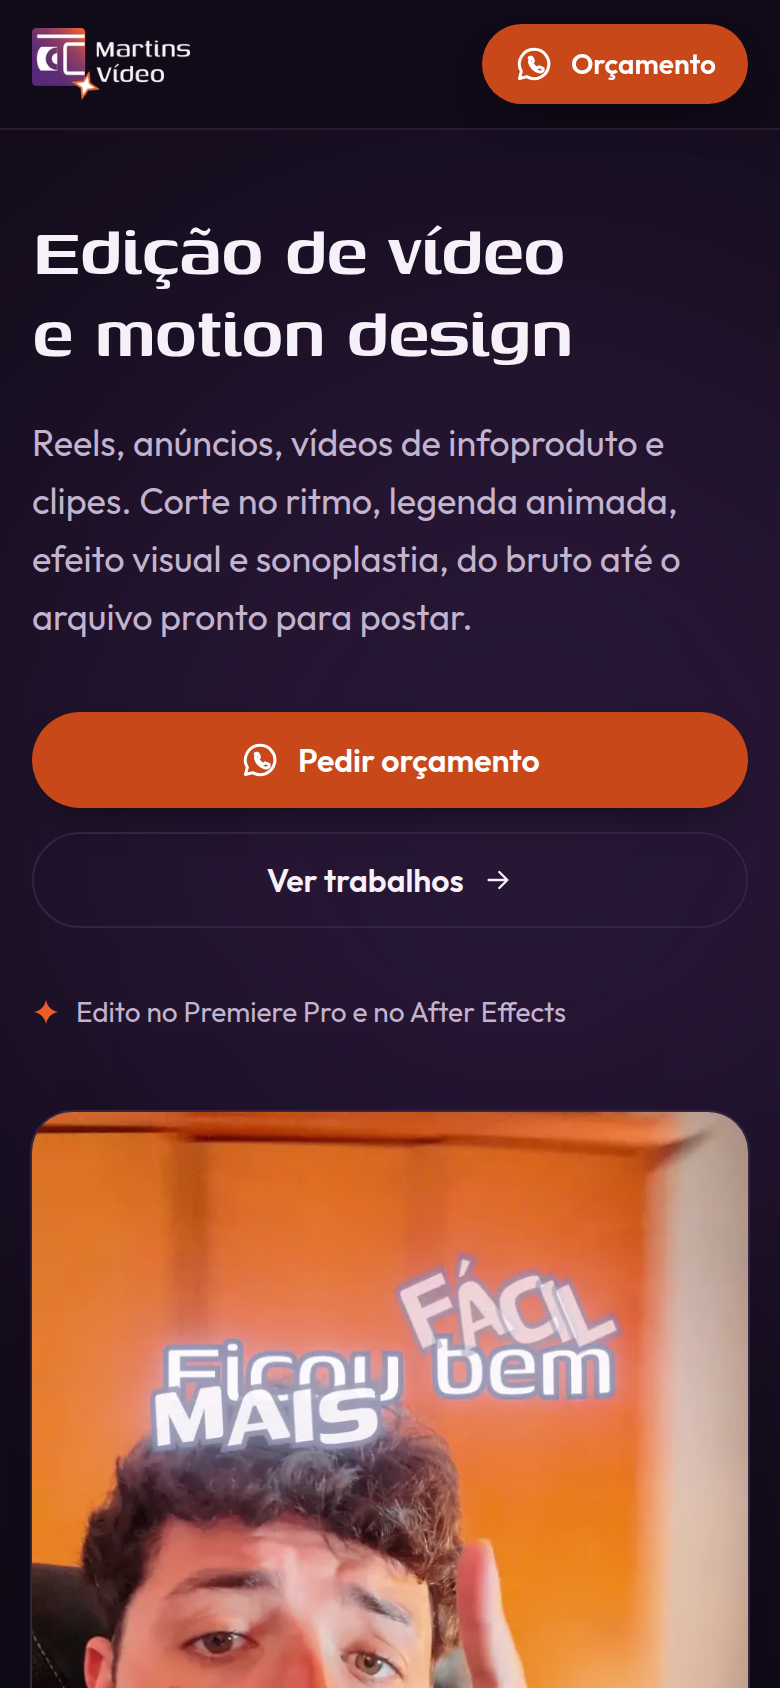
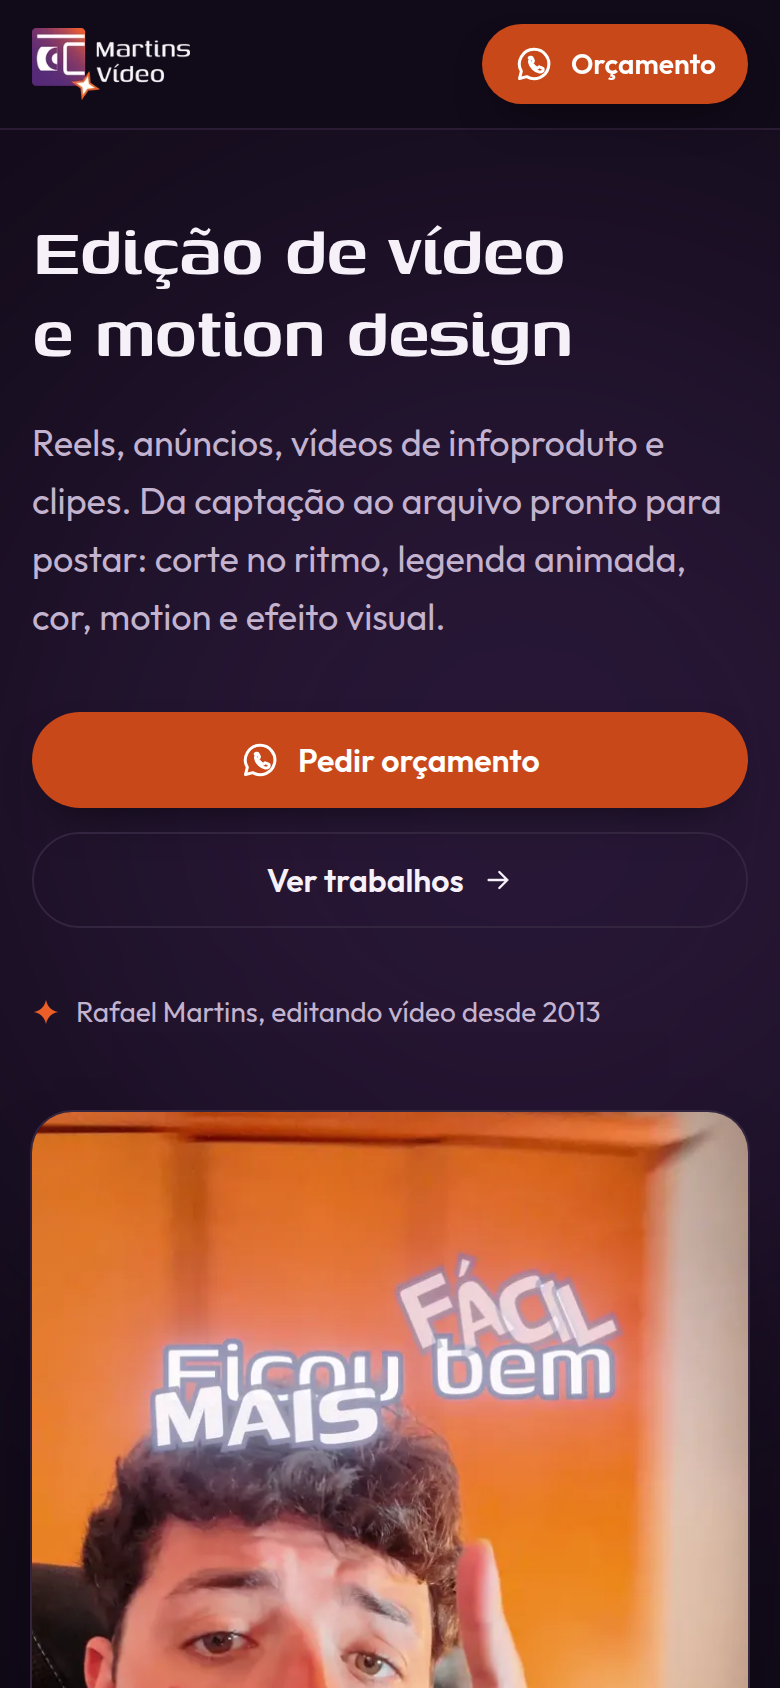
Texto de apresentação do Rafael na seção "Quem edita"
- Nome completo, "desde 2013", cursos e especialidades, com as palavras dele
- Topo e descrição do Google citam o nome e o ano

Claude-Session: https://claude.ai/code/session_01SjvSCZRRoD7Zyb3e5FXqw9

Changed region(s): [[0.0308, 0.2773, 0.9231, 0.4005], [0.0923, 0.5853, 0.7692, 0.6161]]

diff --git a/app/page.tsx b/app/page.tsx
@@ -75,8 +75,8 @@ export default function Home() {
                 Edição de vídeo e motion design
               </h1>
               <p className="mt-5 max-w-[34rem] text-lg leading-relaxed text-apoio">
-                Reels, anúncios, vídeos de infoproduto e clipes. Corte no ritmo, legenda animada, efeito visual e
-                sonoplastia, do bruto até o arquivo pronto para postar.
+                Reels, anúncios, vídeos de infoproduto e clipes. Da captação ao arquivo pronto para postar: corte no
+                ritmo, legenda animada, cor, motion e efeito visual.
               </p>
               <div className="mt-8 grid gap-3 sm:flex sm:flex-wrap">
                 <a href={ZAP_ORCAMENTO} target="_blank" rel="noopener" className="botao botao-principal">
@@ -88,7 +88,7 @@ export default function Home() {
               </div>
               <p className="mt-8 flex items-center gap-2 text-sm text-apoio">
                 <Estrela className="h-3.5 w-3.5 text-laranja" />
-                Edito no Premiere Pro e no After Effects
+                Rafael Martins, editando vídeo desde 2013
               </p>
             </div>
             {DESTAQUE && <Destaque t={DESTAQUE} />}
@@ -124,7 +124,7 @@ export default function Home() {
               src="/rafael-800.webp"
               srcSet="/rafael-400.webp 400w, /rafael-800.webp 800w"
               sizes="320px"
-              alt="Rafael, editor da Martins Vídeo"
+              alt="Rafael Martins, fundador da Martins Vídeo"
               width={800}
               height={800}
               loading="lazy"
@@ -133,12 +133,19 @@ export default function Home() {
             />
             <div>
               <h2 className="text-4xl font-semibold sm:text-5xl">Quem edita</h2>
-              <p className="mt-5 max-w-[36rem] text-lg leading-relaxed text-apoio">
-                Sou o Rafael, da Martins Vídeo. Videomaker, motion designer e artista de VFX.
+              <p className="mt-5 text-xl font-semibold">
+                Rafael Martins<span className="font-normal text-apoio">, fundador da Martins Vídeo</span>
               </p>
-              <p className="mt-4 max-w-[36rem] text-lg leading-relaxed text-apoio">
-                Edito em português e em espanhol (os vídeos da DropLatam aqui são todos em espanhol). Também montei
-                os vídeos do estúdio Vilgner Tattoo e o clipe do Jackson Teixeira.
+              {/* Texto do próprio Rafael (enviado em 23/09/2026). */}
+              <p className="mt-4 max-w-[38rem] text-lg leading-relaxed text-apoio">
+                Desde 2013, Rafael aprendeu de forma autodidata tudo o que aplica em seu trabalho. Sua experiência,
+                criatividade e curiosidade foram o motor que ele utilizou para entender como trazer resultados na
+                produção de vídeos de grande alcance para empresas de pequeno, médio e grande porte.
+              </p>
+              <p className="mt-4 max-w-[38rem] text-lg leading-relaxed text-apoio">
+                Concluiu cursos pela Brainstorm Academy e pela Escola do VFX. Hoje é especialista em captação, edição
+                de vídeo, colorização, motion design e efeitos especiais, e segue ampliando os estudos em
+                inteligência artificial.
               </p>
             </div>
           </div>

diff --git a/app/layout.tsx b/app/layout.tsx
@@ -3,7 +3,7 @@ import "./globals.css";
 import { SITE } from "./dados";
 
 const descricao =
-  "Edição de Reels, anúncios, vídeos de infoproduto e clipes, com motion design, legenda animada e sonoplastia. Orçamento pelo WhatsApp.";
+  "Rafael Martins edita vídeo desde 2013: Reels, anúncios, vídeos de infoproduto e clipes, com motion design, cor e efeitos especiais. Orçamento pelo WhatsApp.";
 
 export const metadata: Metadata = {
   metadataBase: new URL(SITE),
